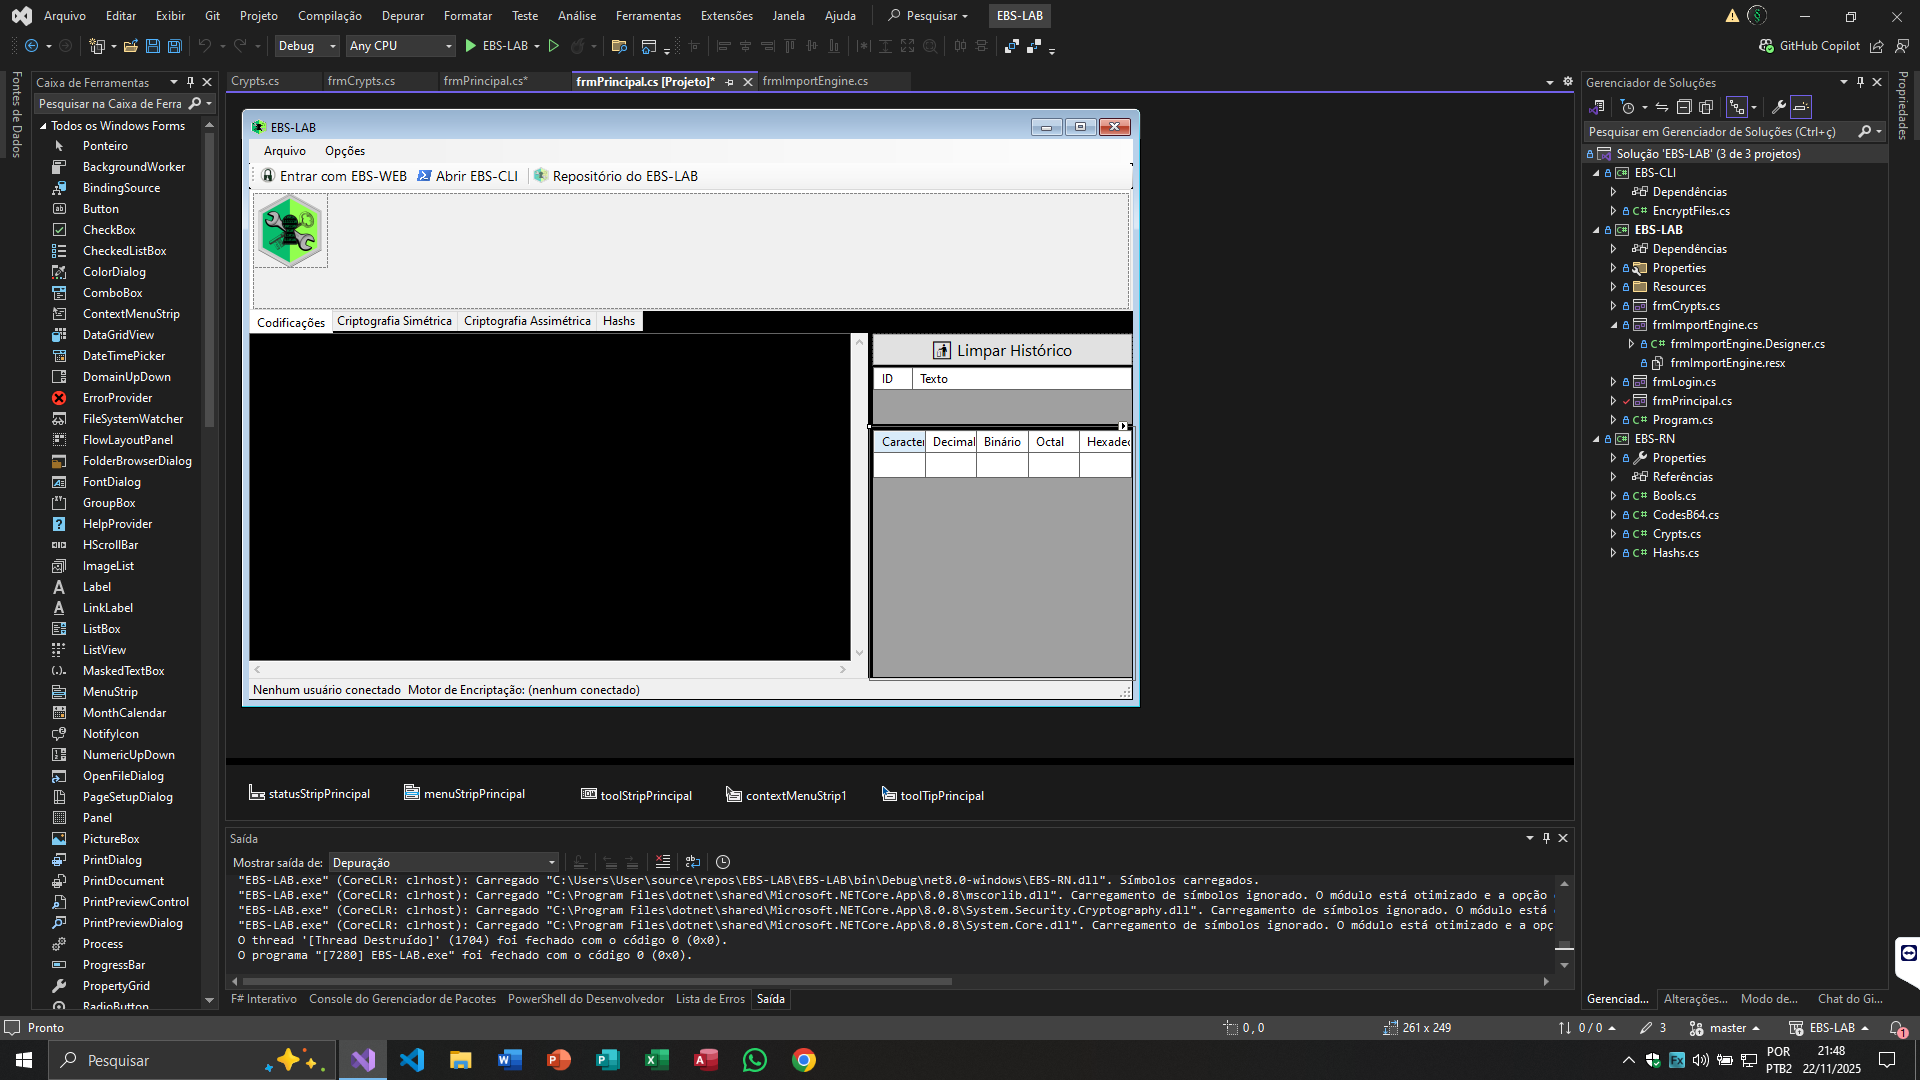
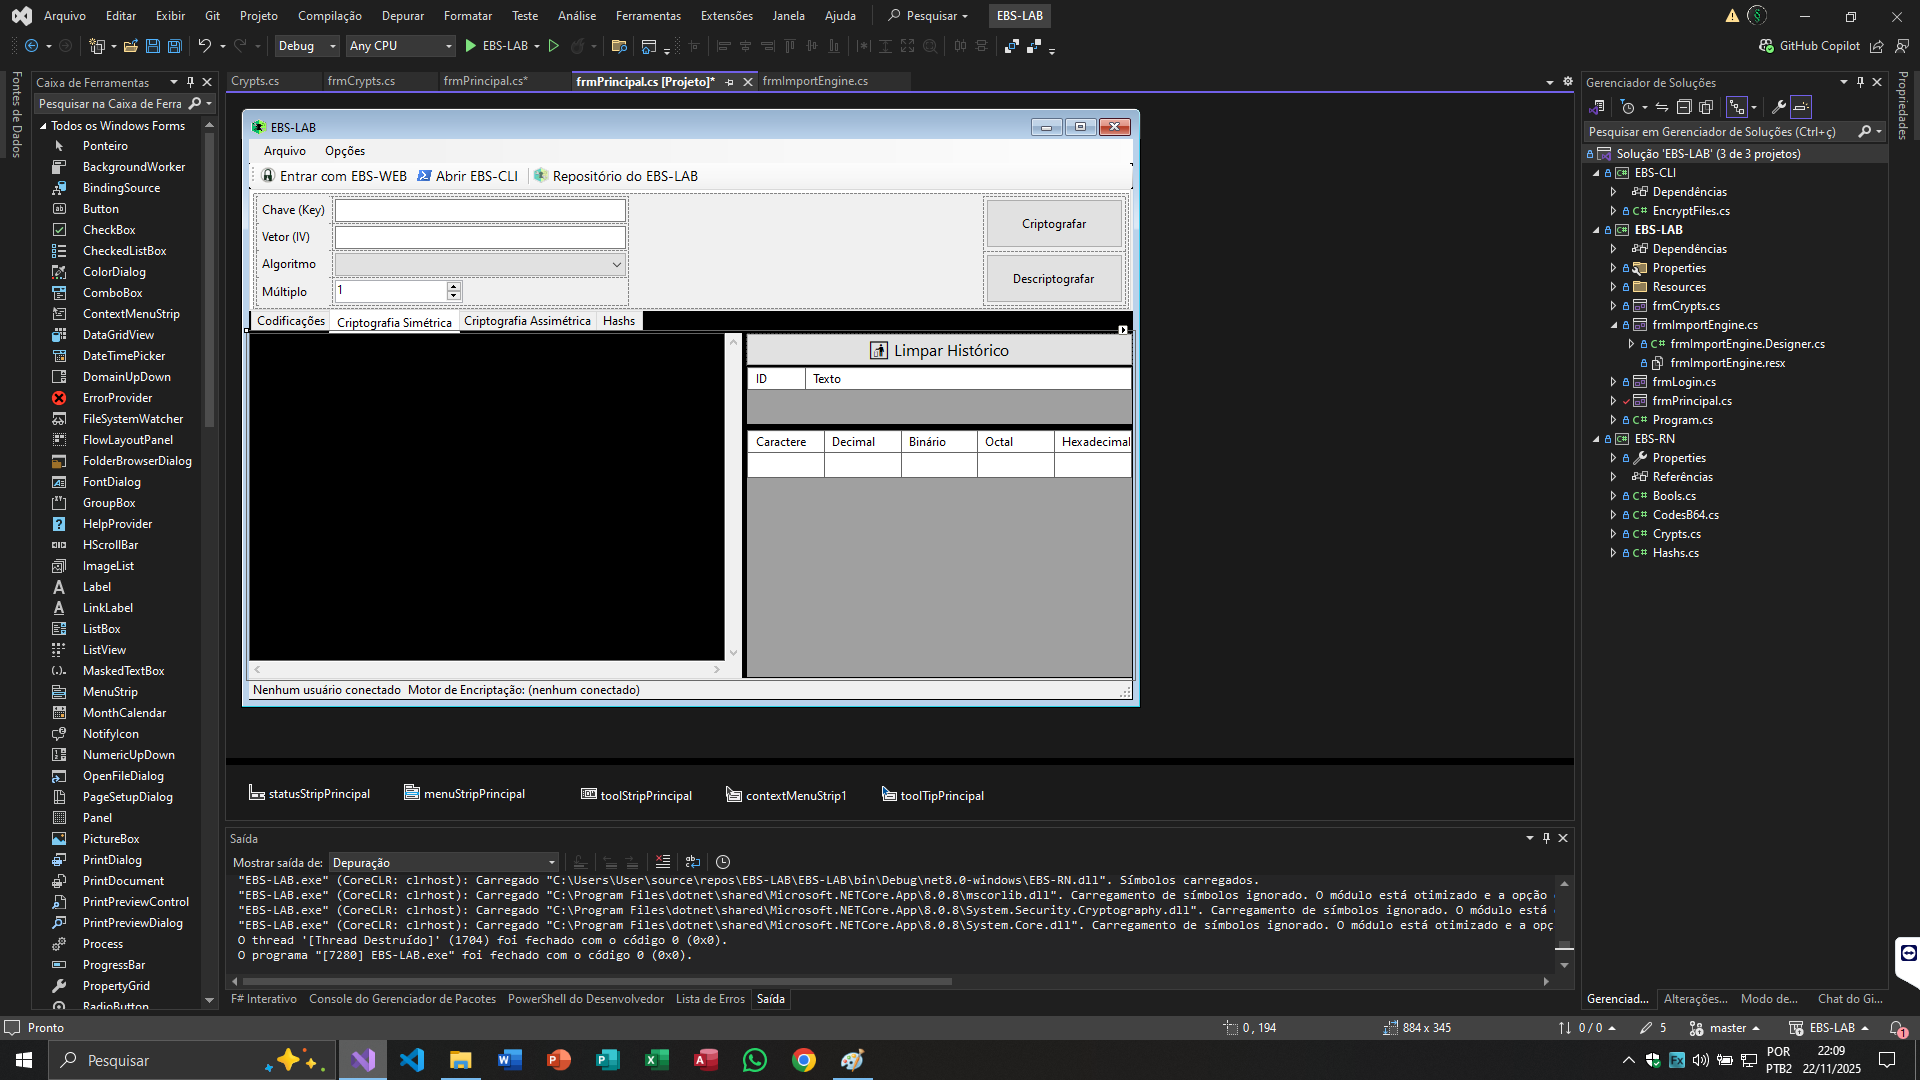
:books: docs: Readme

diff --git a/EBS-LAB/frmPrincipal.Designer.cs b/EBS-LAB/frmPrincipal.Designer.cs
@@ -904,7 +904,7 @@
             // 
             splitContainerPrincipal.Panel2.Controls.Add(splitContainerDTGs);
             splitContainerPrincipal.Size = new Size(884, 345);
-            splitContainerPrincipal.SplitterDistance = 619;
+            splitContainerPrincipal.SplitterDistance = 493;
             splitContainerPrincipal.TabIndex = 4;
             // 
             // txtPrincipal
@@ -918,7 +918,7 @@
             txtPrincipal.Multiline = true;
             txtPrincipal.Name = "txtPrincipal";
             txtPrincipal.ScrollBars = ScrollBars.Both;
-            txtPrincipal.Size = new Size(619, 345);
+            txtPrincipal.Size = new Size(493, 345);
             txtPrincipal.TabIndex = 0;
             txtPrincipal.WordWrap = false;
             txtPrincipal.TextChanged += txtPrincipal_TextChanged;
@@ -938,7 +938,7 @@
             // splitContainerDTGs.Panel2
             // 
             splitContainerDTGs.Panel2.Controls.Add(dtgPrincipal);
-            splitContainerDTGs.Size = new Size(261, 345);
+            splitContainerDTGs.Size = new Size(387, 345);
             splitContainerDTGs.SplitterDistance = 92;
             splitContainerDTGs.TabIndex = 2;
             // 
@@ -980,7 +980,7 @@
             dataGridViewCellStyle4.WrapMode = DataGridViewTriState.True;
             dtgHistórico.RowHeadersDefaultCellStyle = dataGridViewCellStyle4;
             dtgHistórico.RowHeadersVisible = false;
-            dtgHistórico.Size = new Size(261, 59);
+            dtgHistórico.Size = new Size(387, 59);
             dtgHistórico.TabIndex = 0;
             dtgHistórico.CellContentClick += dtgHistórico_CellContentClick;
             // 
@@ -1004,7 +1004,7 @@
             btnClear.Font = new Font("Segoe UI", 12F, FontStyle.Regular, GraphicsUnit.Point, 0);
             btnClear.Location = new Point(0, 0);
             btnClear.Name = "btnClear";
-            btnClear.Size = new Size(261, 33);
+            btnClear.Size = new Size(387, 33);
             btnClear.TabIndex = 1;
             btnClear.Text = "🚮 Limpar Histórico";
             btnClear.UseVisualStyleBackColor = true;
@@ -1046,7 +1046,7 @@
             dataGridViewCellStyle8.WrapMode = DataGridViewTriState.True;
             dtgPrincipal.RowHeadersDefaultCellStyle = dataGridViewCellStyle8;
             dtgPrincipal.RowHeadersVisible = false;
-            dtgPrincipal.Size = new Size(261, 249);
+            dtgPrincipal.Size = new Size(387, 249);
             dtgPrincipal.TabIndex = 1;
             dtgPrincipal.CellEndEdit += dtgPrincipal_CellEndEdit;
             dtgPrincipal.CellValueChanged += dtgPrincipal_CellValueChanged;
